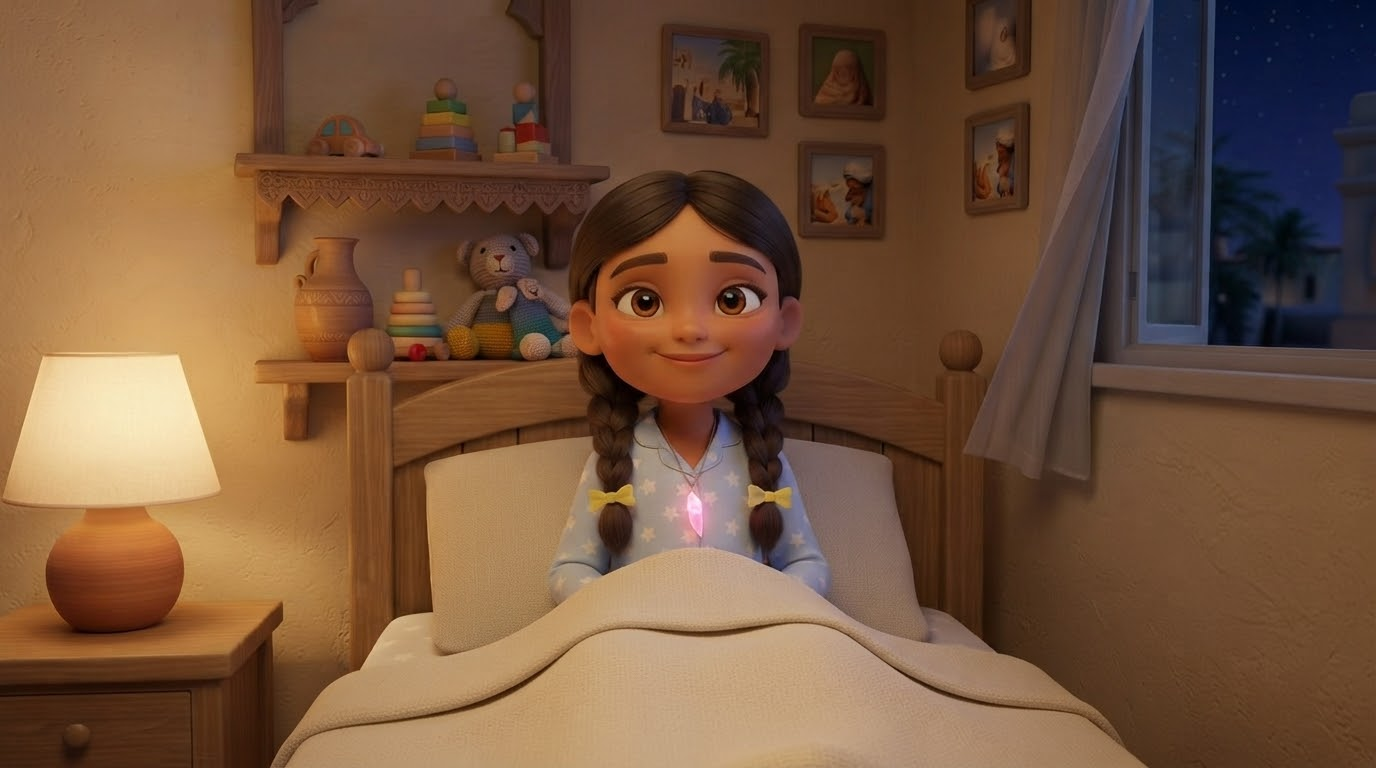
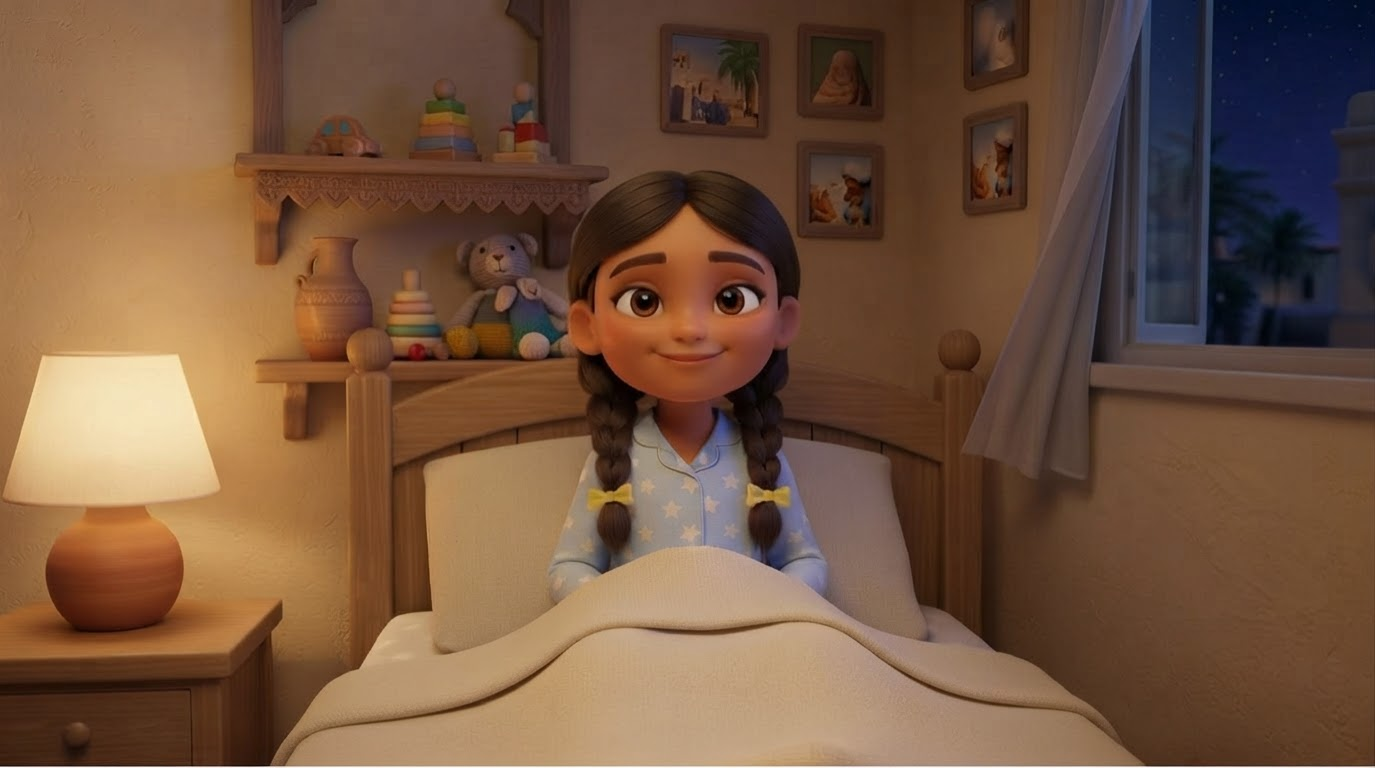
EP03: necklace only during adventures; replace bedroom images
Claude-Session: https://claude.ai/code/session_01VC8tZq8YJQcMsLYTyc8PJu

diff --git a/episodes/ep03/art/SHOTS-ONE-BY-ONE.md b/episodes/ep03/art/SHOTS-ONE-BY-ONE.md
@@ -19,62 +19,62 @@ Shot 03-1 (TALKING, Lantern): the lantern floating alone in a starry night sky a
 
 ### 04-1
 ```
-Shot 04-1: Nour's bedroom from the reference at night, wide shot: Nour sits in bed under the cream blanket, Mama sits on the edge of the bed, the bedside lamp is on, Mishmish curled at the foot of the bed, the lantern unlit on the shelf. One single wide 16:9 image.
+Shot 04-1: (no necklace) Nour's bedroom from the reference at night, wide shot: Nour sits in bed under the cream blanket, Mama sits on the edge of the bed, the bedside lamp is on, Mishmish curled at the foot of the bed, the lantern unlit on the shelf. One single wide 16:9 image.
 ```
 
 ### 04-2
 ```
-Shot 04-2 (TALKING, Nour): medium close-up, Nour sitting in bed facing the camera, proud big smile, a few neatly stacked toys on a shelf behind her. One single wide 16:9 image.
+Shot 04-2 (TALKING, Nour): (no necklace) medium close-up, Nour sitting in bed facing the camera, proud big smile, a few neatly stacked toys on a shelf behind her. One single wide 16:9 image.
 ```
 
 ### 04-3
 ```
-Shot 04-3 (TALKING, Mama): medium close-up, Mama facing the camera with a warm smile, her hand resting near the bedside lamp switch. One single wide 16:9 image.
+Shot 04-3 (TALKING, Mama): (no necklace) medium close-up, Mama facing the camera with a warm smile, her hand resting near the bedside lamp switch. One single wide 16:9 image.
 ```
 
 ### 04-4
 ```
-Shot 04-4 (TALKING, Nour): close-up, Nour facing the camera, a little scared, holding the edge of her blanket up to her chin with both hands (face fully visible). One single wide 16:9 image.
+Shot 04-4 (TALKING, Nour): (no necklace) close-up, Nour facing the camera, a little scared, holding the edge of her blanket up to her chin with both hands (face fully visible). One single wide 16:9 image.
 ```
 
 ### 04-5
 ```
-Shot 04-5 (TALKING, Mama): close-up, Mama facing the camera, gentle caring face, head slightly tilted. One single wide 16:9 image.
+Shot 04-5 (TALKING, Mama): (no necklace) close-up, Mama facing the camera, gentle caring face, head slightly tilted. One single wide 16:9 image.
 ```
 
 ### 04-6
 ```
-Shot 04-6 (TALKING, Nour): Nour facing the camera with shy eyes glancing sideways; behind her, a dark corner of the room where a coat stand casts a soft funny shadow. One single wide 16:9 image.
+Shot 04-6 (TALKING, Nour): (no necklace) Nour facing the camera with shy eyes glancing sideways; behind her, a dark corner of the room where a coat stand casts a soft funny shadow. One single wide 16:9 image.
 ```
 
 ### 04-7
 ```
-Shot 04-7 (TALKING, Mama): Mama hugging Nour on the bed with one arm and pointing gently around the room with the other: the bed, the wooden wardrobe, a small teddy bear; Mama faces the camera, cozy lamp light. One single wide 16:9 image.
+Shot 04-7 (TALKING, Mama): (no necklace) Mama hugging Nour on the bed with one arm and pointing gently around the room with the other: the bed, the wooden wardrobe, a small teddy bear; Mama faces the camera, cozy lamp light. One single wide 16:9 image.
 ```
 
 ### 04-8
 ```
-Shot 04-8 (TALKING, Mama): Mama facing the camera, switching on a small star-shaped night light on the bedside table that glows soft yellow. One single wide 16:9 image.
+Shot 04-8 (TALKING, Mama): (no necklace) Mama facing the camera, switching on a small star-shaped night light on the bedside table that glows soft yellow. One single wide 16:9 image.
 ```
 
 ### 04-9
 ```
-Shot 04-9 (TALKING, Nour): Nour facing the camera, curious, lying on her pillow, the small star night light glowing beside her. One single wide 16:9 image.
+Shot 04-9 (TALKING, Nour): (no necklace) Nour facing the camera, curious, lying on her pillow, the small star night light glowing beside her. One single wide 16:9 image.
 ```
 
 ### 04-10
 ```
-Shot 04-10 (TALKING, Mama): Mama facing the camera, smiling with a dreamy remembering look, pulling the cream blanket up over Nour like a big cozy cover. One single wide 16:9 image.
+Shot 04-10 (TALKING, Mama): (no necklace) Mama facing the camera, smiling with a dreamy remembering look, pulling the cream blanket up over Nour like a big cozy cover. One single wide 16:9 image.
 ```
 
 ### 04-11
 ```
-Shot 04-11 (TALKING, Nour): Nour facing the camera, giggling, the blanket pulled up to her chin, eyes squeezed happily. One single wide 16:9 image.
+Shot 04-11 (TALKING, Nour): (no necklace) Nour facing the camera, giggling, the blanket pulled up to her chin, eyes squeezed happily. One single wide 16:9 image.
 ```
 
 ### 04-12
 ```
-Shot 04-12: Mama at the half-open bedroom door looking back lovingly; the room is dark except the small star night light; Nour snuggled in bed. One single wide 16:9 image.
+Shot 04-12: (no necklace) Mama at the half-open bedroom door looking back lovingly; the room is dark except the small star night light; Nour snuggled in bed. One single wide 16:9 image.
 ```
 
 ### 05-1
@@ -494,7 +494,7 @@ Shot 16-4 (TALKING, Lantern): the lantern on the shelf in the dark room, facing 
 
 ### 16-5
 ```
-Shot 16-5: Nour asleep smiling, the tiny crystal glowing beside her pillow, the necklace with pink and purple lights; Lumaa twinkles outside the window. One single wide 16:9 image.
+Shot 16-5: Nour asleep smiling without the necklace, the tiny crystal glowing beside her pillow; Lumaa twinkles outside the window. One single wide 16:9 image.
 ```
 
 ### 16-6

diff --git a/episodes/ep03/art/SHOTS-EP03.md b/episodes/ep03/art/SHOTS-EP03.md
@@ -14,30 +14,30 @@ Shot 03-1 (TALKING, Lantern): the lantern floating alone in a starry night sky a
 
 ### رسالة 2
 ```
-Shot 04-1: Nour's bedroom from the reference at night, wide shot: Nour sits in bed under the cream blanket, Mama sits on the edge of the bed, the bedside lamp is on, Mishmish curled at the foot of the bed, the lantern unlit on the shelf. [005]
-Shot 04-2 (TALKING, Nour): medium close-up, Nour sitting in bed facing the camera, proud big smile, a few neatly stacked toys on a shelf behind her. [006]
-Shot 04-3 (TALKING, Mama): medium close-up, Mama facing the camera with a warm smile, her hand resting near the bedside lamp switch. [007]
+Shot 04-1: (no necklace) Nour's bedroom from the reference at night, wide shot: Nour sits in bed under the cream blanket, Mama sits on the edge of the bed, the bedside lamp is on, Mishmish curled at the foot of the bed, the lantern unlit on the shelf. [005]
+Shot 04-2 (TALKING, Nour): (no necklace) medium close-up, Nour sitting in bed facing the camera, proud big smile, a few neatly stacked toys on a shelf behind her. [006]
+Shot 04-3 (TALKING, Mama): (no necklace) medium close-up, Mama facing the camera with a warm smile, her hand resting near the bedside lamp switch. [007]
 ```
 
 ### رسالة 3
 ```
-Shot 04-4 (TALKING, Nour): close-up, Nour facing the camera, a little scared, holding the edge of her blanket up to her chin with both hands (face fully visible). [008]
-Shot 04-5 (TALKING, Mama): close-up, Mama facing the camera, gentle caring face, head slightly tilted. [009]
-Shot 04-6 (TALKING, Nour): Nour facing the camera with shy eyes glancing sideways; behind her, a dark corner of the room where a coat stand casts a soft funny shadow. [010]
+Shot 04-4 (TALKING, Nour): (no necklace) close-up, Nour facing the camera, a little scared, holding the edge of her blanket up to her chin with both hands (face fully visible). [008]
+Shot 04-5 (TALKING, Mama): (no necklace) close-up, Mama facing the camera, gentle caring face, head slightly tilted. [009]
+Shot 04-6 (TALKING, Nour): (no necklace) Nour facing the camera with shy eyes glancing sideways; behind her, a dark corner of the room where a coat stand casts a soft funny shadow. [010]
 ```
 
 ### رسالة 4
 ```
-Shot 04-7 (TALKING, Mama): Mama hugging Nour on the bed with one arm and pointing gently around the room with the other: the bed, the wooden wardrobe, a small teddy bear; Mama faces the camera, cozy lamp light. [011]
-Shot 04-8 (TALKING, Mama): Mama facing the camera, switching on a small star-shaped night light on the bedside table that glows soft yellow. [012]
-Shot 04-9 (TALKING, Nour): Nour facing the camera, curious, lying on her pillow, the small star night light glowing beside her. [013]
+Shot 04-7 (TALKING, Mama): (no necklace) Mama hugging Nour on the bed with one arm and pointing gently around the room with the other: the bed, the wooden wardrobe, a small teddy bear; Mama faces the camera, cozy lamp light. [011]
+Shot 04-8 (TALKING, Mama): (no necklace) Mama facing the camera, switching on a small star-shaped night light on the bedside table that glows soft yellow. [012]
+Shot 04-9 (TALKING, Nour): (no necklace) Nour facing the camera, curious, lying on her pillow, the small star night light glowing beside her. [013]
 ```
 
 ### رسالة 5
 ```
-Shot 04-10 (TALKING, Mama): Mama facing the camera, smiling with a dreamy remembering look, pulling the cream blanket up over Nour like a big cozy cover. [014]
-Shot 04-11 (TALKING, Nour): Nour facing the camera, giggling, the blanket pulled up to her chin, eyes squeezed happily. [015-016]
-Shot 04-12: Mama at the half-open bedroom door looking back lovingly; the room is dark except the small star night light; Nour snuggled in bed. [017-018]
+Shot 04-10 (TALKING, Mama): (no necklace) Mama facing the camera, smiling with a dreamy remembering look, pulling the cream blanket up over Nour like a big cozy cover. [014]
+Shot 04-11 (TALKING, Nour): (no necklace) Nour facing the camera, giggling, the blanket pulled up to her chin, eyes squeezed happily. [015-016]
+Shot 04-12: (no necklace) Mama at the half-open bedroom door looking back lovingly; the room is dark except the small star night light; Nour snuggled in bed. [017-018]
 ```
 
 ### رسالة 6
@@ -233,7 +233,7 @@ Shot 16-2 (TALKING, Nour): Nour in bed facing the camera, soft brave smile, the 
 ```
 Shot 16-3: Nour reaches out and switches off the star night light; the room is dark except for the soft glow of the tiny crystal and the necklace. [124-125]
 Shot 16-4 (TALKING, Lantern): the lantern on the shelf in the dark room, facing the camera, softly glowing, proud gentle smile. [126]
-Shot 16-5: Nour asleep smiling, the tiny crystal glowing beside her pillow, the necklace with pink and purple lights; Lumaa twinkles outside the window. [127-130]
+Shot 16-5: Nour asleep smiling without the necklace, the tiny crystal glowing beside her pillow; Lumaa twinkles outside the window. [127-130]
 ```
 
 ### رسالة 34
